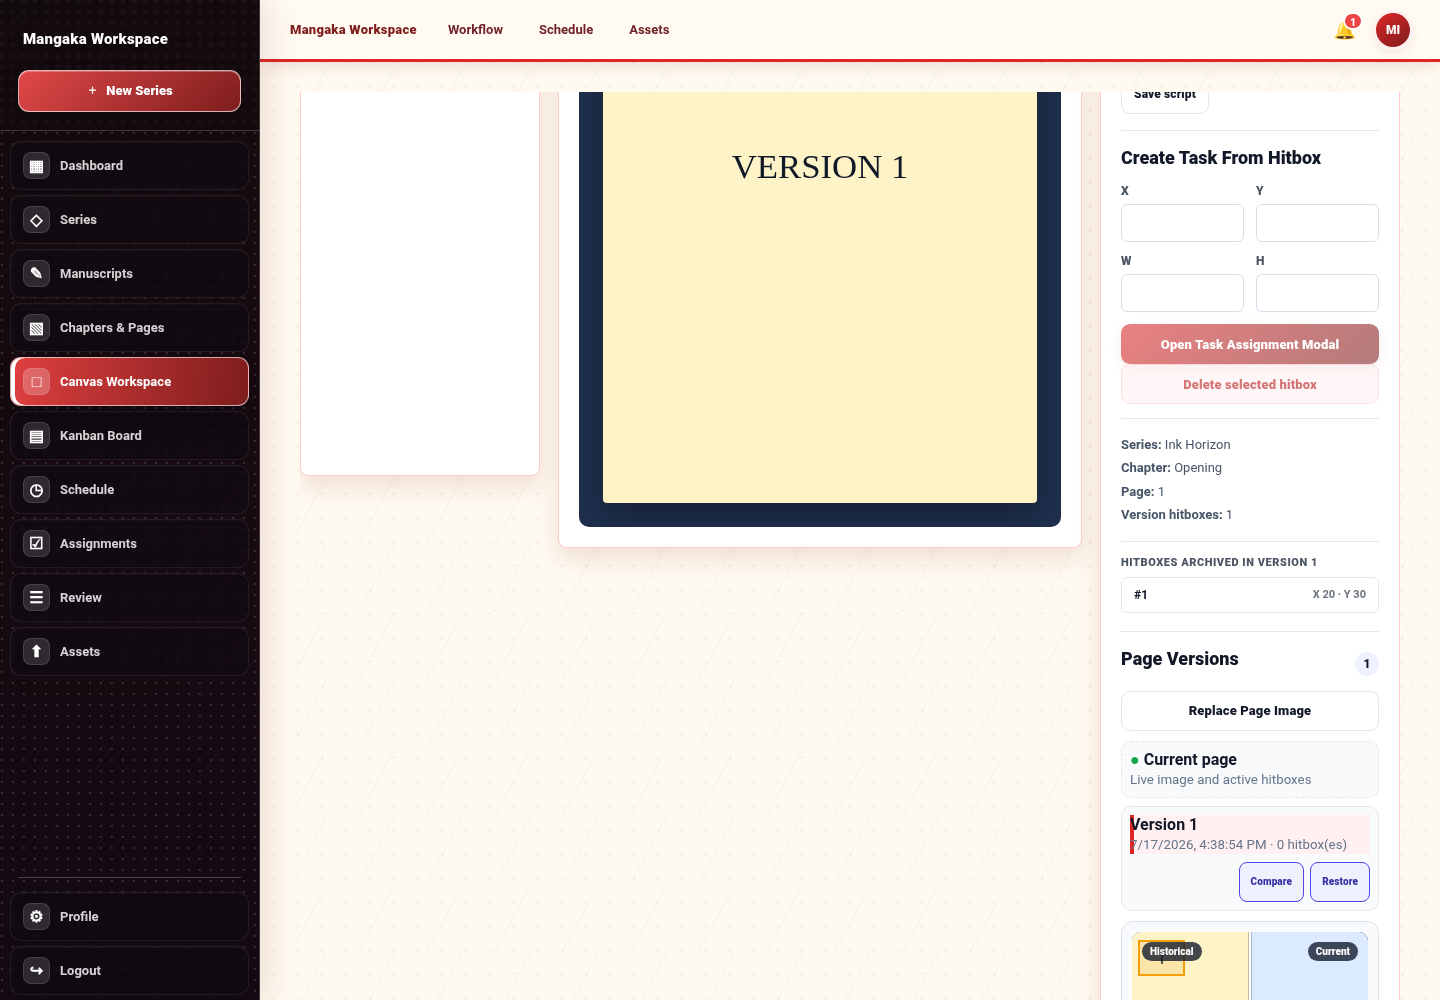
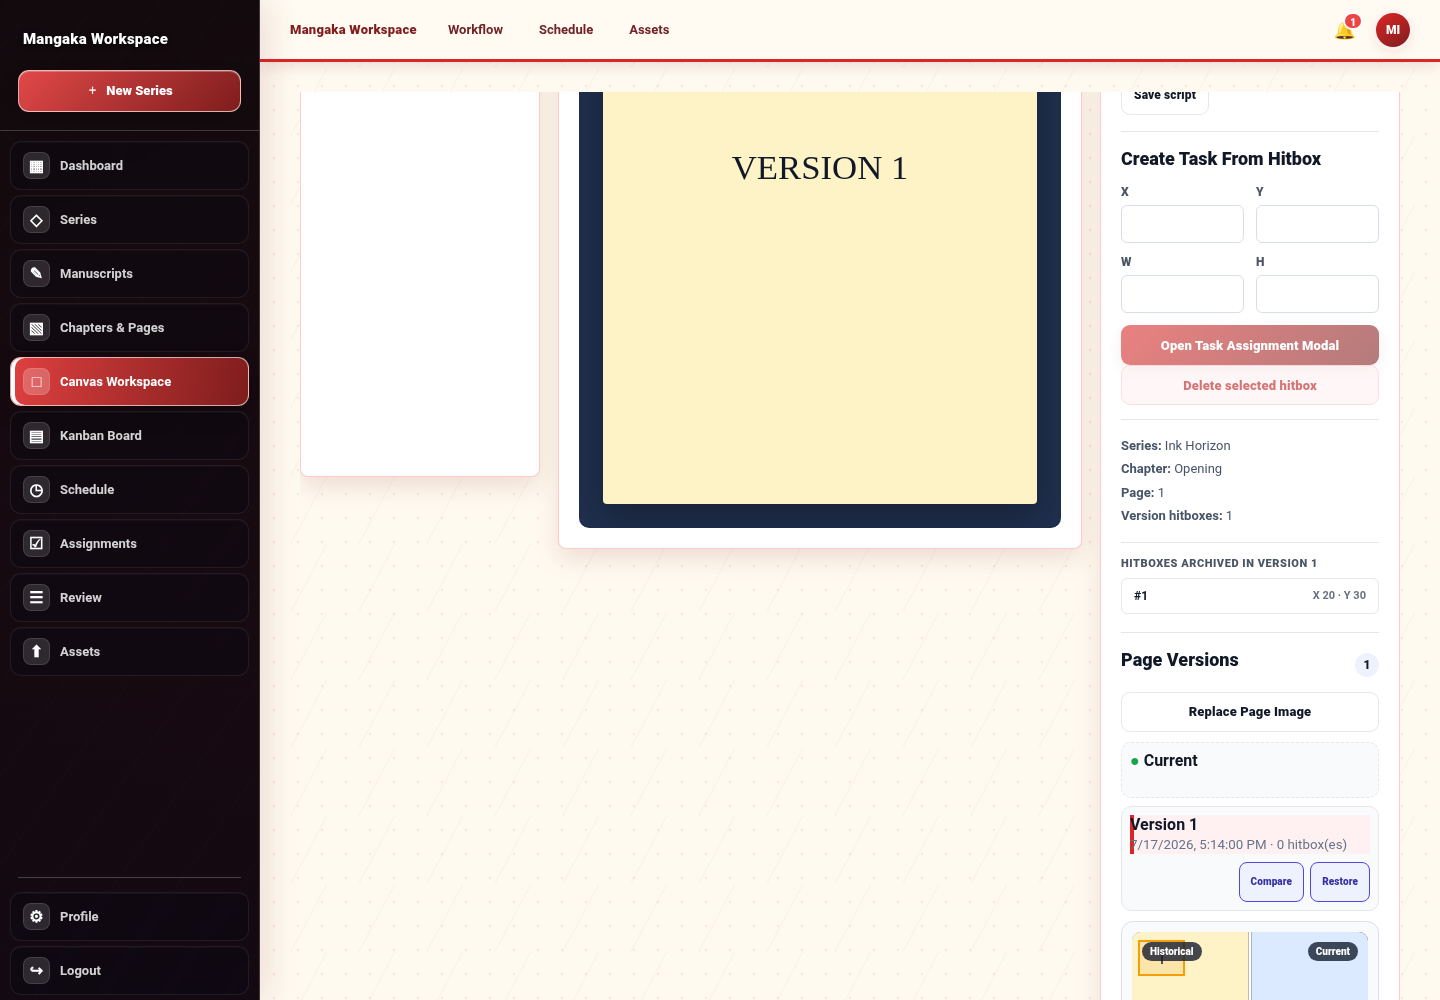
HitboxFIx

diff --git a/src/styles.css b/src/styles.css
@@ -10495,7 +10495,7 @@ th { font-size:11px; text-transform:uppercase; color:#6b7280; background:#f9fafb
   --role-shadow: rgba(194, 91, 0, .20);
 }
 .feature-screen.admin-screen {
-  --role-navigation-art: url("https://res.cloudinary.com/dt1stlhqc/image/upload/v1784219050/Black_Space_zw82an.jpg");
+  --role-navigation-art: url("https://res.cloudinary.com/dt1stlhqc/image/upload/v1784221324/Blue_Space_z76u0i.jpg");
   --role-accent: #2563eb;
   --role-accent-dark: #123a8c;
   --role-soft: #dbeafe;
@@ -10520,11 +10520,9 @@ th { font-size:11px; text-transform:uppercase; color:#6b7280; background:#f9fafb
   box-shadow: 8px 0 30px var(--role-shadow);
 }
 .feature-screen .sidebar::before {
-  opacity: .18;
-  background-image:
-    radial-gradient(circle at 16% 8%, rgba(255,255,255,.72) 0 1px, transparent 1.5px),
-    repeating-linear-gradient(125deg, transparent 0 24px, rgba(255,255,255,.12) 25px, transparent 26px 45px);
-  background-size: 11px 11px, auto;
+  opacity: .13;
+  background-image: repeating-linear-gradient(125deg, transparent 0 28px, rgba(255,255,255,.10) 29px, transparent 30px 52px);
+  background-size: auto;
 }
 .feature-screen .workspace-title {
   padding: 22px 18px 14px;
@@ -10807,5 +10805,72 @@ th { font-size:11px; text-transform:uppercase; color:#6b7280; background:#f9fafb
   .feature-screen.board-screen .sidebar,
   .feature-screen.admin-screen .sidebar {
     width: 100%;
+  }
+}
+
+
+/* =========================================================
+   Restore/version, series hero, English calendar, nav cleanup
+   ========================================================= */
+/* Navigation artwork should stay clean: remove the translucent dot overlay. */
+.feature-screen .sidebar::before {
+  opacity: .13;
+  background-image: repeating-linear-gradient(125deg, transparent 0 28px, rgba(255,255,255,.10) 29px, transparent 30px 52px);
+  background-size: auto;
+}
+
+/* Let the Chapters & Pages series cover keep its full portrait proportions. */
+.chapter-manager-screen .chapter-series-hero {
+  min-height: 230px;
+  padding: 18px 22px;
+  align-items: stretch;
+  gap: 24px;
+}
+.chapter-manager-screen .chapter-series-hero .detail-cover {
+  width: 150px;
+  min-width: 150px;
+  height: 210px;
+  border-radius: 12px;
+  align-self: center;
+  background: #fff;
+  box-shadow: 0 8px 22px rgba(15, 23, 42, .16);
+}
+.chapter-manager-screen .chapter-series-hero .detail-cover img {
+  width: 100%;
+  height: 100%;
+  object-fit: contain;
+  object-position: center;
+  background: #fff;
+}
+.chapter-manager-screen .chapter-series-hero > div:last-child {
+  min-width: 0;
+  display: flex;
+  flex-direction: column;
+  justify-content: center;
+  overflow: visible;
+}
+.chapter-manager-screen .chapter-series-hero h2 {
+  margin: 2px 0 10px;
+  overflow: visible;
+  white-space: normal;
+  overflow-wrap: anywhere;
+  line-height: 1.15;
+}
+
+/* The compact Current selector no longer carries a redundant description. */
+.page-version-list > button:first-child,
+.page-version-row > button:first-child {
+  min-height: 38px;
+}
+
+@media (max-width: 700px) {
+  .chapter-manager-screen .chapter-series-hero {
+    min-height: 0;
+    align-items: center;
+  }
+  .chapter-manager-screen .chapter-series-hero .detail-cover {
+    width: 120px;
+    min-width: 120px;
+    height: 168px;
   }
 }

diff --git a/src/pages/CanvasWorkspacePage.jsx b/src/pages/CanvasWorkspacePage.jsx
@@ -709,7 +709,9 @@ export default function CanvasWorkspacePage({ initialSeriesId = "", initialChapt
       setCanvas((old) => ({ ...(old || {}), imageUrl: restored?.imageUrl || restored?.image_url || version.imageUrl || version.image_url }));
       setViewedVersionId("");
       setViewedVersionHitboxes([]);
-      await loadVersions(selectedPageId);
+      // Reload the current canvas after restore so the active hitboxes cloned
+      // from this historical version appear immediately on the main canvas.
+      await loadCanvas(selectedPageId);
       setMessage(`Restored page to version ${version.versionNumber || version.version_number || version.id}.`);
     } catch (err) {
       setError(err.message || "Could not restore this version.");
@@ -895,8 +897,7 @@ export default function CanvasWorkspacePage({ initialSeriesId = "", initialChapt
               <div className="page-version-list">
                 <div className="page-version-row current-version-row">
                   <button type="button" className={!viewedVersionId ? "active" : ""} onClick={() => { setViewedVersionId(""); setViewedVersionHitboxes([]); setSelectedBox(null); }}>
-                    <strong>Current page</strong>
-                    <small>Live image and active hitboxes</small>
+                    <strong>Current</strong>
                   </button>
                 </div>
                 {versions.map((version) => {

diff --git a/src/pages/SchedulePage.jsx b/src/pages/SchedulePage.jsx
@@ -218,7 +218,7 @@ function MonthCalendar({ items, cursor, onChange }) {
     map[key].push(item);
     return map;
   }, {});
-  const title = cursor.toLocaleDateString(undefined, { month: "long", year: "numeric" });
+  const title = cursor.toLocaleDateString("en-US", { month: "long", year: "numeric" });
 
   return (
     <div className="card month-calendar-card">